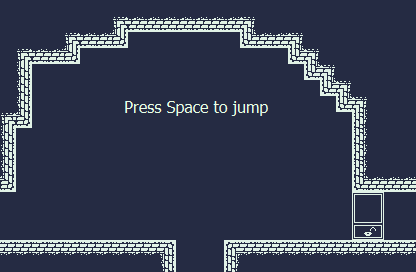
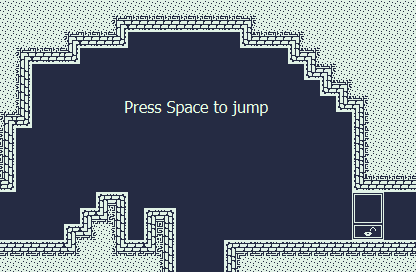
Added new walls to the Tileset
I created a new terrain; ground, walls, and ceiling tiles.

diff --git a/IngDow/Assets/SuperTiled2Unity/Import/Dow_TileSet.tsx b/IngDow/Assets/SuperTiled2Unity/Import/Dow_TileSet.tsx
@@ -2,8 +2,9 @@
 <tileset version="1.4" tiledversion="1.4.3" name="Dow_TileSet" tilewidth="16" tileheight="16" tilecount="400" columns="20">
  <image source="TileSet/Dow_TileSet.png" width="320" height="320"/>
  <terraintypes>
-  <terrain name="Walls" tile="-1"/>
+  <terrain name="Walls 01" tile="21"/>
   <terrain name="LockedDoor" tile="-1"/>
+  <terrain name="Wall 02" tile="369"/>
  </terraintypes>
  <tile id="16" terrain=",,,1"/>
  <tile id="17" terrain=",,1,"/>
@@ -24,4 +25,29 @@
  <tile id="60" terrain=",0,,"/>
  <tile id="61" terrain="0,0,,"/>
  <tile id="62" terrain="0,,,"/>
+ <tile id="231" terrain="2,2,2,2"/>
+ <tile id="248" terrain="2,2,2,"/>
+ <tile id="249" terrain="2,2,,"/>
+ <tile id="250" terrain="2,2,,"/>
+ <tile id="251" terrain="2,2,,"/>
+ <tile id="252" terrain="2,2,,2"/>
+ <tile id="268" terrain="2,,2,"/>
+ <tile id="272" terrain=",2,,2"/>
+ <tile id="288" terrain="2,,2,2"/>
+ <tile id="289" terrain=",,2,"/>
+ <tile id="291" terrain=",,,2"/>
+ <tile id="292" terrain=",2,2,2"/>
+ <tile id="309" terrain="2,,2,"/>
+ <tile id="311" terrain=",2,,2"/>
+ <tile id="328" terrain="2,2,2,"/>
+ <tile id="329" terrain="2,,,"/>
+ <tile id="331" terrain=",2,,"/>
+ <tile id="332" terrain="2,2,,2"/>
+ <tile id="348" terrain="2,,2,"/>
+ <tile id="352" terrain=",2,,2"/>
+ <tile id="368" terrain="2,,2,2"/>
+ <tile id="369" terrain=",,2,2"/>
+ <tile id="370" terrain=",,2,2"/>
+ <tile id="371" terrain=",,2,2"/>
+ <tile id="372" terrain=",2,2,2"/>
 </tileset>
